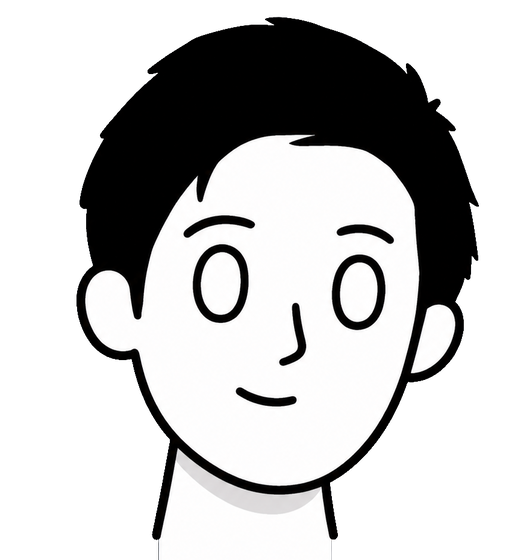
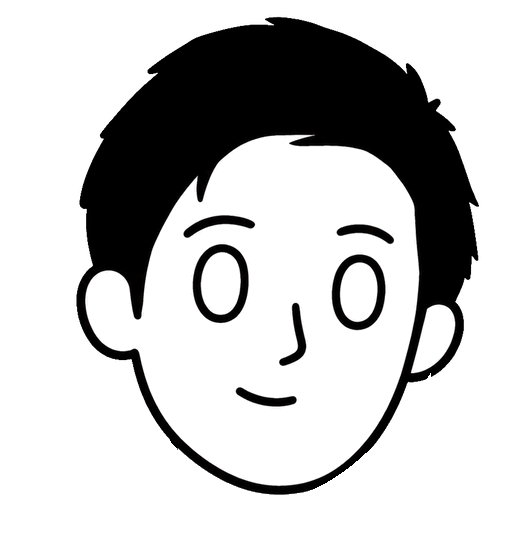
Refine interactive portrait silhouette

Changed region(s): [[0.2812, 0.7893, 0.6562, 0.9714], [0.6562, 0.8196, 0.7188, 0.85]]

diff --git a/src/styles.css b/src/styles.css
@@ -140,17 +140,74 @@ button:focus-visible {
 }
 
 .portrait-character {
+  position: relative;
+  z-index: 1;
   width: 100%;
   height: 100%;
   object-fit: contain;
   pointer-events: none;
   user-select: none;
-  -webkit-mask-image: linear-gradient(to bottom, #000 0%, #000 91%, transparent 100%);
-  mask-image: linear-gradient(to bottom, #000 0%, #000 91%, transparent 100%);
+}
+
+.portrait-body {
+  position: absolute;
+  z-index: 0;
+  top: 75%;
+  left: 50%;
+  width: 48%;
+  height: 27%;
+  background: radial-gradient(
+    ellipse at 50% 14%,
+    rgb(31 39 43 / 12%) 0%,
+    rgb(31 39 43 / 5%) 30%,
+    transparent 62%
+  );
+  transform: translateX(-50%);
+}
+
+.portrait-body::before,
+.portrait-body::after {
+  position: absolute;
+  top: 12%;
+  width: 2px;
+  height: 82%;
+  border-radius: 999px;
+  background: #101214;
+  content: "";
+  transform-origin: top;
+}
+
+.portrait-body::before {
+  left: 8%;
+  transform: rotate(9deg);
+}
+
+.portrait-body::after {
+  top: 44%;
+  right: 6%;
+  height: 50%;
+  transform: rotate(-10deg);
+}
+
+@media (prefers-color-scheme: dark) {
+  .portrait-body {
+    background: radial-gradient(
+      ellipse at 50% 14%,
+      rgb(237 240 238 / 13%) 0%,
+      rgb(237 240 238 / 5%) 30%,
+      transparent 62%
+    );
+  }
+
+  .portrait-body::before,
+  .portrait-body::after {
+    background: var(--ink);
+  }
 }
 
 .portrait-pupil {
   position: absolute;
+  z-index: 2;
   width: 5.2px;
   aspect-ratio: 1;
   border-radius: 50%;

diff --git a/src/App.jsx b/src/App.jsx
@@ -183,6 +183,7 @@ function PointerPortrait() {
       aria-label="Illustration of Will Hou looking toward the pointer"
     >
       <div className="portrait-rig">
+        <span className="portrait-body" aria-hidden="true" />
         <img
           className="portrait-character"
           src="/images/will-hou-character.png"
